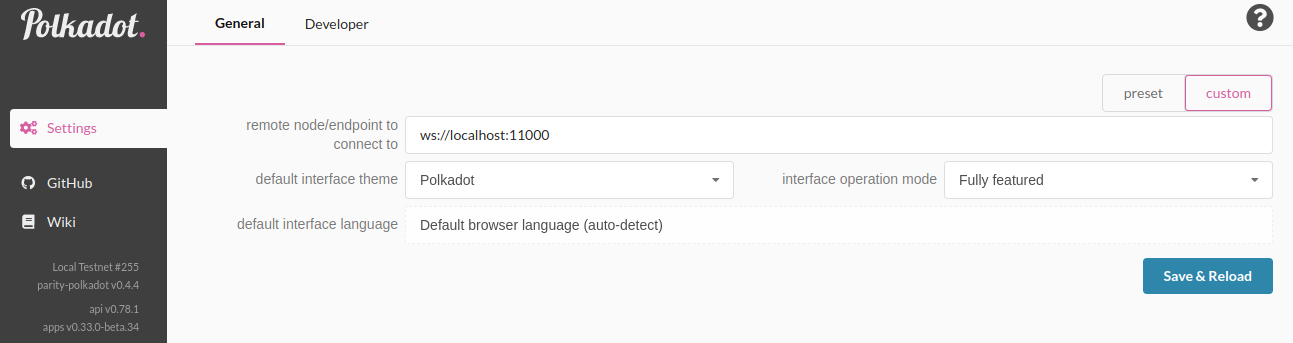
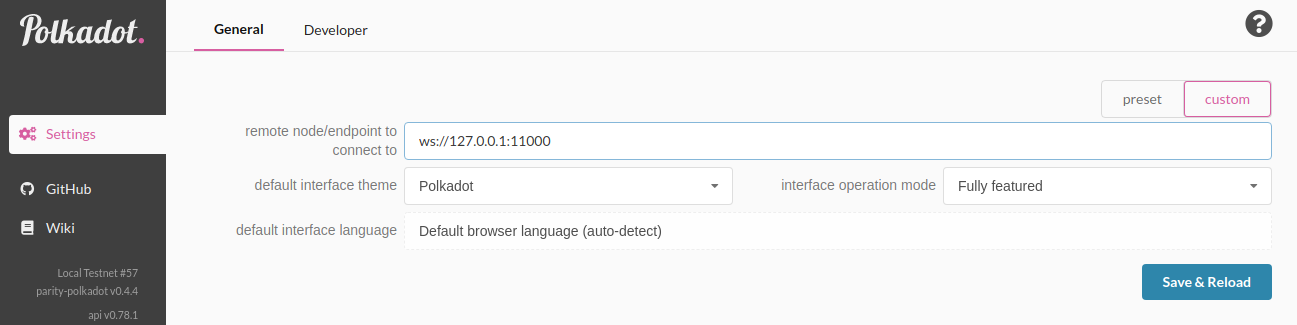
use 127.0.0.1 instead of localhost for ws endpoint

diff --git a/lib/portforward.js b/lib/portforward.js
@@ -8,7 +8,7 @@ module.exports = {
     const kubectl = new Kubectl(deployment);
     const result = await kubectl.portForward('polkadot-node-0-0', 'app=polkadot-node-0', 9944);
 
-    const wsEndpoint = `ws://localhost:${result.port}`
+    const wsEndpoint = `ws://127.0.0.1:${result.port}`
 
     console.log(chalk.green('*******************************************************'));
     console.log(chalk.green(` Websockets endpoint available at ${wsEndpoint} `));

diff --git a/README.md b/README.md
@@ -69,7 +69,7 @@ create` call:
 
 ```
 *********************************************************
- Websockets endpoint available at ws://localhost:11000
+ Websockets endpoint available at ws://127.0.0.1:11000
 *********************************************************
 ```
 You can use that url to access the network from https://polkadot.js.org/apps
@@ -84,7 +84,7 @@ Shows details of all the created deployments:
 ┌──────────────┬─────────────────┬──────────────────────┬──────────┬─────────┬────────────────┐
 │ Network name │ Deployment type │ WebSockets endpoint  │ Provider │ Workers │ Polkadot nodes │
 ├──────────────┼─────────────────┼──────────────────────┼──────────┼─────────┼────────────────┤
-│ testnet1     │ local           │ ws://localhost:11000 │ kind     │ 1       │ 4              │
+│ testnet1     │ local           │ ws://127.0.0.1:11000 │ kind     │ 1       │ 4              │
 └──────────────┴─────────────────┴──────────────────────┴──────────┴─────────┴────────────────┘
 ```
 
